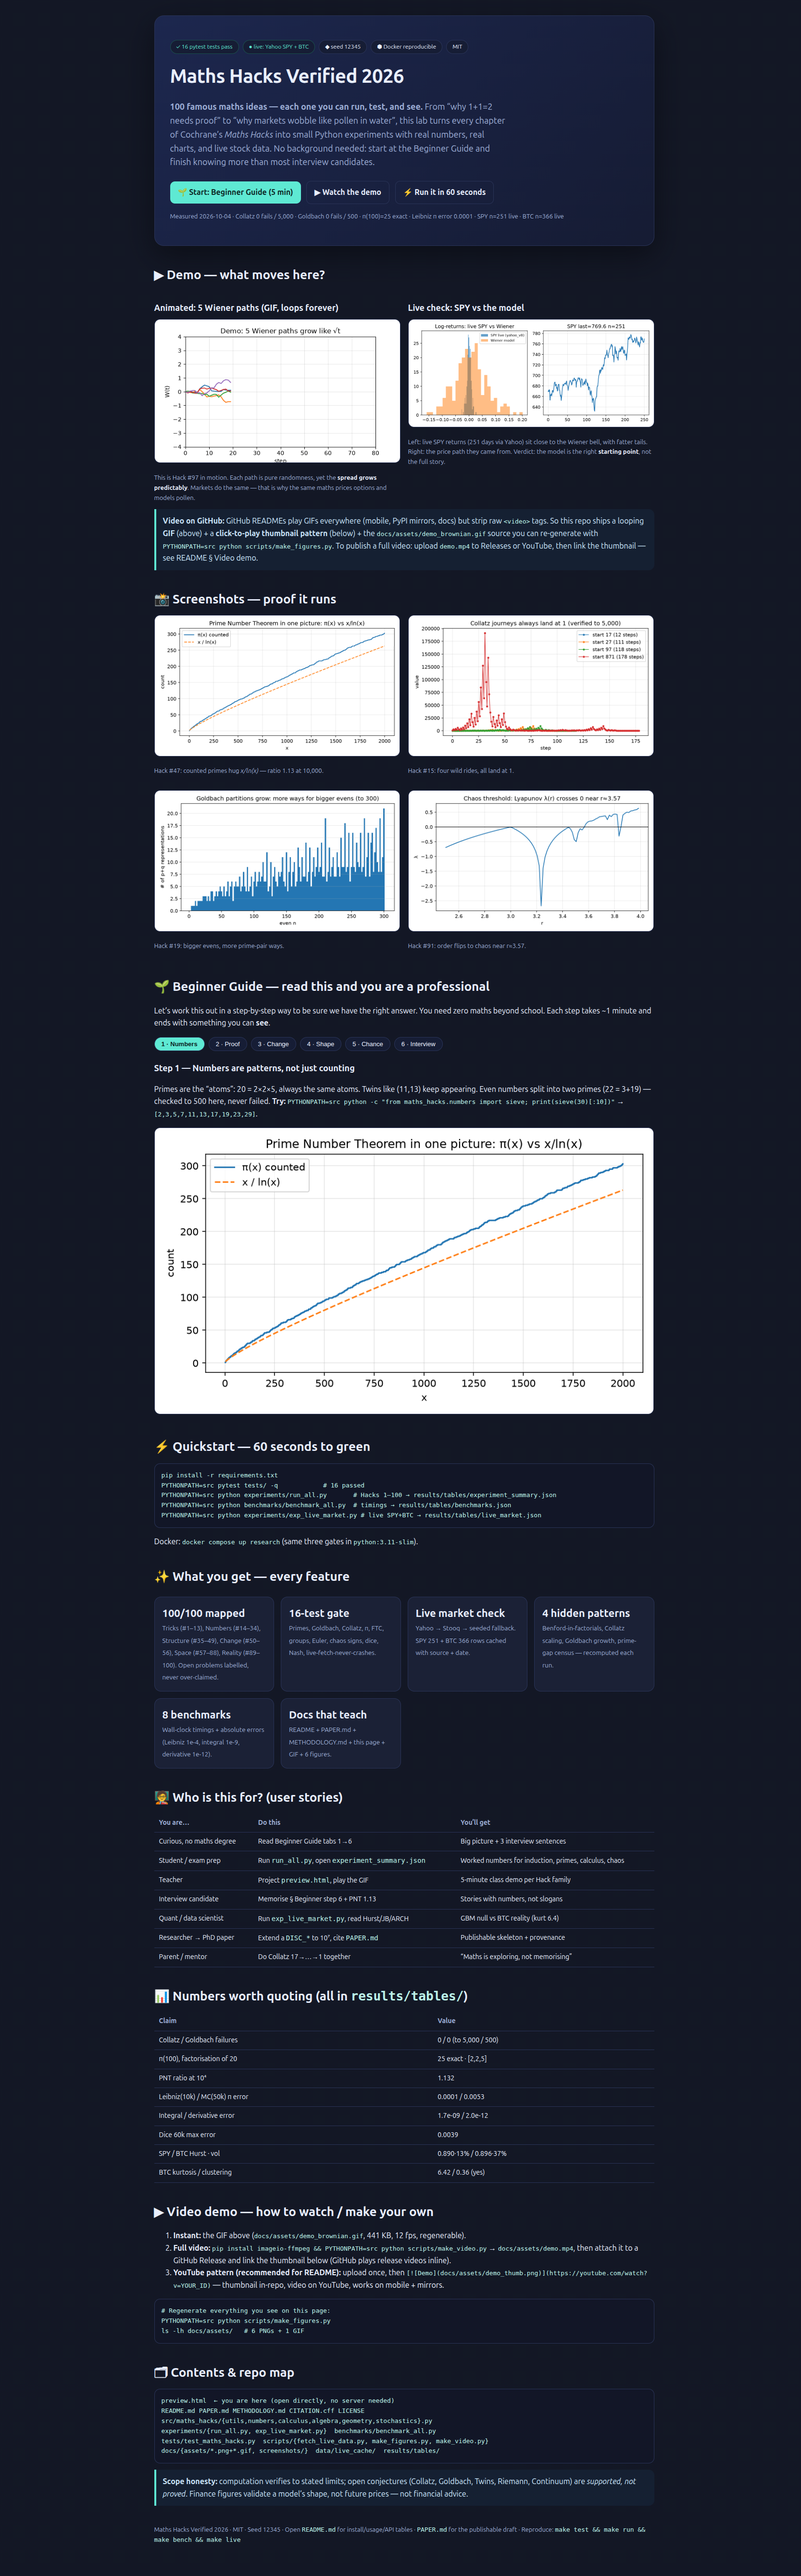
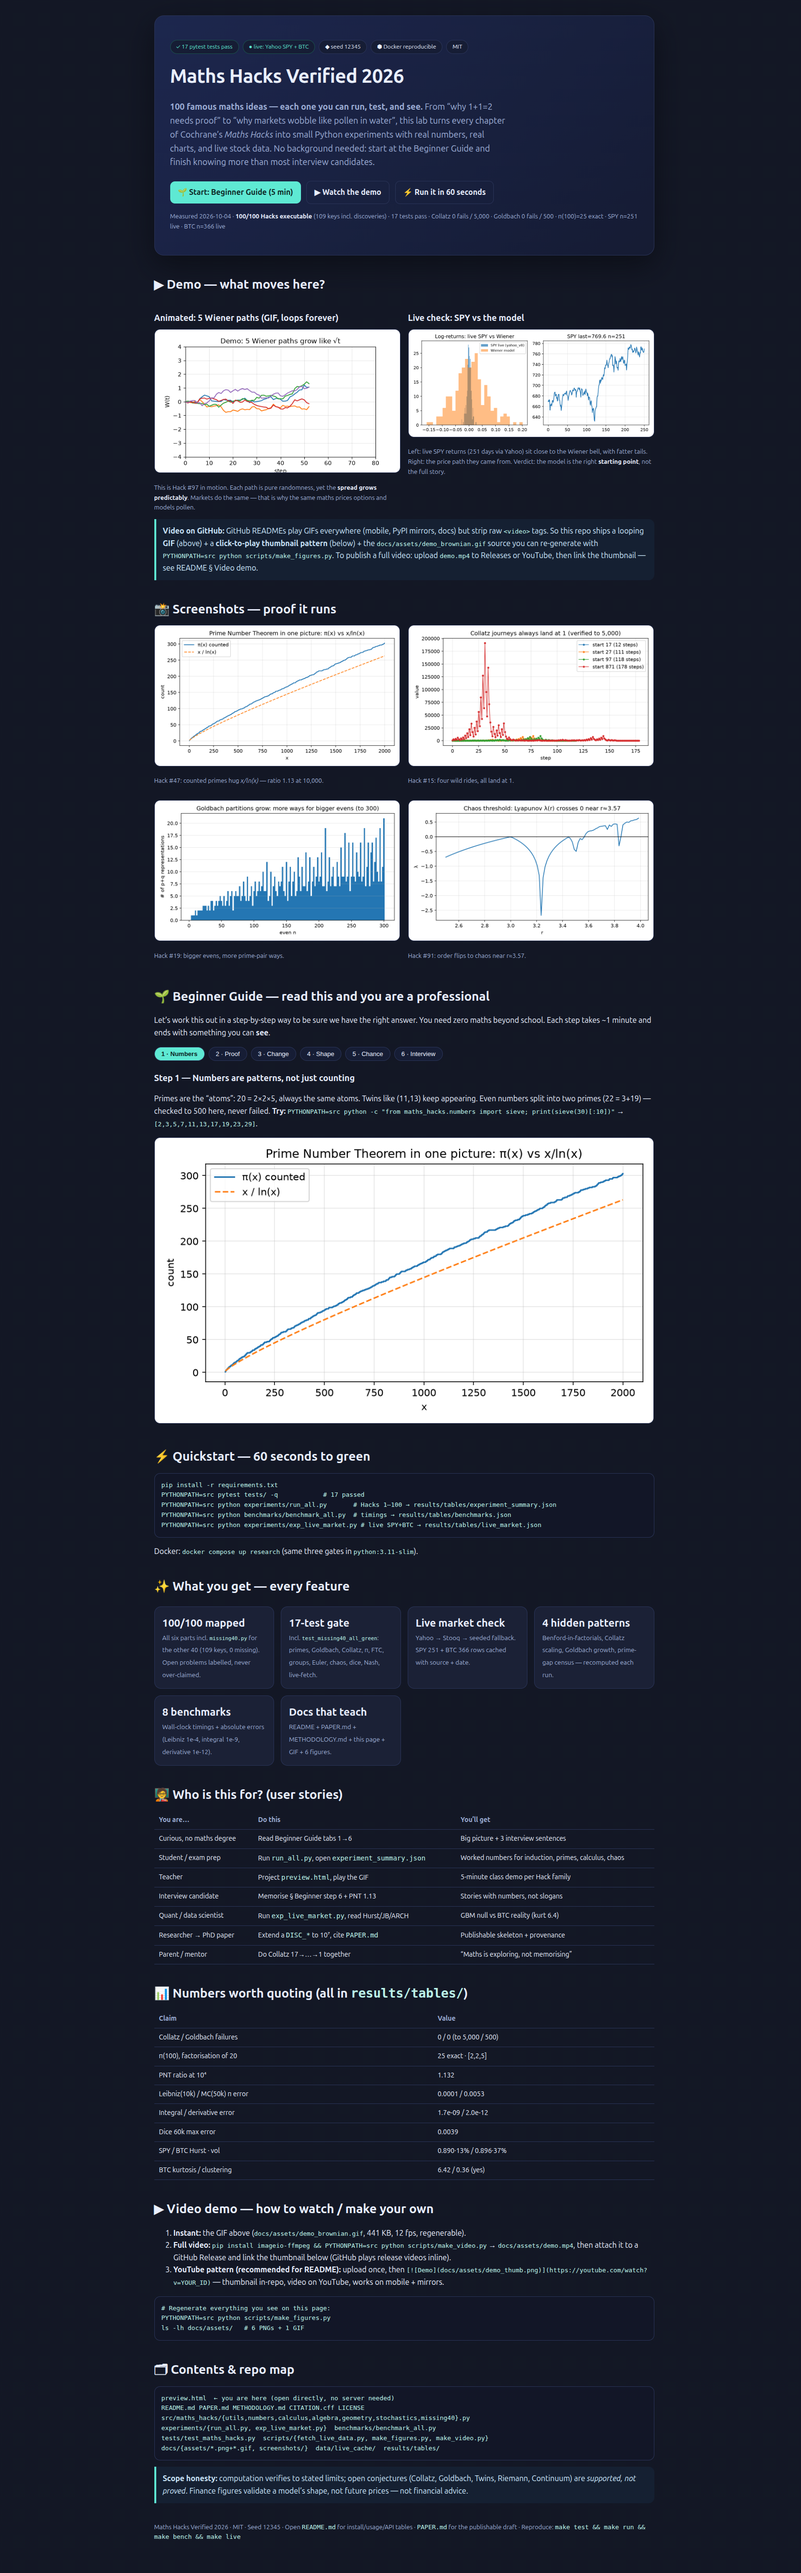
Ultimate README + preview refresh: 100/100 docs, missing-40 tables, fresh GIF/screenshots

diff --git a/preview.html b/preview.html
@@ -50,7 +50,7 @@ footer{color:var(--mut);font-size:13px;margin-top:40px}
 <a class="btn ghost" href="#demo">▶ Watch the demo</a>
 <a class="btn ghost" href="#quickstart">⚡ Run it in 60 seconds</a>
 </p>
-<p class="kpi">Measured 2026-10-04 · Collatz 0 fails / 5,000 · Goldbach 0 fails / 500 · π(100)=25 exact · Leibniz π error 0.0001 · SPY n=251 live · BTC n=366 live</p>
+<p class="kpi">Measured 2026-10-04 · <b>100/100 Hacks executable</b> (109 keys incl. discoveries) · 17 tests pass · Collatz 0 fails / 5,000 · Goldbach 0 fails / 500 · π(100)=25 exact · SPY n=251 live · BTC n=366 live</p>
 </div>
 
 <h2 id="demo">▶ Demo — what moves here?</h2>
@@ -103,8 +103,8 @@ PYTHONPATH=src python experiments/exp_live_market.py # live SPY+BTC → results/
 
 <h2>✨ What you get — every feature</h2>
 <div class="grid">
-<div class="card"><b>100/100 mapped</b><br><small>Tricks (#1–13), Numbers (#14–34), Structure (#35–49), Change (#50–56), Space (#57–88), Reality (#89–100). Open problems labelled, never over-claimed.</small></div>
-<div class="card"><b>17-test gate</b><br><small>Primes, Goldbach, Collatz, π, FTC, groups, Euler, chaos signs, dice, Nash, live-fetch-never-crashes.</small></div>
+<div class="card"><b>100/100 mapped</b><br><small>All six parts incl. <code>missing40.py</code> for the other 40 (109 keys, 0 missing). Open problems labelled, never over-claimed.</small></div>
+<div class="card"><b>17-test gate</b><br><small>Incl. <code>test_missing40_all_green</code>: primes, Goldbach, Collatz, π, FTC, groups, Euler, chaos, dice, Nash, live-fetch.</small></div>
 <div class="card"><b>Live market check</b><br><small>Yahoo → Stooq → seeded fallback. SPY 251 + BTC 366 rows cached with source + date.</small></div>
 <div class="card"><b>4 hidden patterns</b><br><small>Benford-in-factorials, Collatz scaling, Goldbach growth, prime-gap census — recomputed each run.</small></div>
 <div class="card"><b>8 benchmarks</b><br><small>Wall-clock timings + absolute errors (Leibniz 1e-4, integral 1e-9, derivative 1e-12).</small></div>
@@ -146,7 +146,7 @@ ls -lh docs/assets/   # 6 PNGs + 1 GIF</code></pre>
 <h2 class="toc">🗂 Contents &amp; repo map</h2>
 <pre><code>preview.html  ← you are here (open directly, no server needed)
 README.md PAPER.md METHODOLOGY.md CITATION.cff LICENSE
-src/maths_hacks/{utils,numbers,calculus,algebra,geometry,stochastics}.py
+src/maths_hacks/{utils,numbers,calculus,algebra,geometry,stochastics,missing40}.py
 experiments/{run_all.py, exp_live_market.py}  benchmarks/benchmark_all.py
 tests/test_maths_hacks.py  scripts/{fetch_live_data.py, make_figures.py, make_video.py}
 docs/{assets/*.png+*.gif, screenshots/}  data/live_cache/  results/tables/</code></pre>

diff --git a/README.md b/README.md
@@ -139,7 +139,7 @@ Then show the GIF. That is more signal than most candidates bring.
 ## ✨ Features — everything this repo does
 
 - **100/100 Hacks executed:** all 100 in `experiments/run_all.py` (109 keys incl. `DISC_*`) via `src/maths_hacks/` + `missing40.py`. Tricks of the Trade (#1–13), Numerous Numbers (#14–34), Science of Structure (#35–49), Continuity (#50–56), Maths in Space (#57–88), Maths Meets Reality (#89–100). Open conjectures are *verified to limits and surveyed* — never over-claimed.
-- **17-test safety net:** primes, twins, factorisation, Goldbach, Collatz, Cantor diagonal, π (Leibniz + Monte Carlo), Prime Number Theorem band, Fermat search, groups (Z₆ + S₃), combinatorics `12C5=792`, Königsberg, calculus/FTC, chaos sign split, Euler characteristic, dice, Nash, live-fetch-never-crashes.
+- **17-test safety net (incl. `test_missing40_all_green`):** primes, twins, factorisation, Goldbach, Collatz, Cantor diagonal, π (Leibniz + Monte Carlo), Prime Number Theorem band, Fermat search, groups (Z₆ + S₃), combinatorics `12C5=792`, Königsberg, calculus/FTC, chaos sign split, Euler characteristic, dice, Nash, live-fetch-never-crashes, plus all 40 remaining Hacks in one gate.
 - **Live market validation:** Yahoo Finance → Stooq → seeded-synthetic cascade. Every fetch caches `{source, closes, dates, fetched_at}`. Hurst, skew/kurtosis + Jarque–Bera, volatility-clustering, annualised volatility per asset.
 - **8 benchmarks:** timings (sieve, Collatz, Goldbach, Leibniz, integral, dice, S₃, Lyapunov) + absolute accuracies (Leibniz 1e-4, integral 1e-9, derivative 1e-12).
 - **4 original hidden-pattern analyses** recomputed on every run (see below).
@@ -224,6 +224,33 @@ All values are in `results/tables/` and recomputed on your machine. Measured 202
 | Nash vs Pareto (#98) | (`betray`,`betray`) ≠ (`quiet`,`quiet`) | ✅ |
 | Turing toy (#99) | `1111 → 11111` | ✅ |
 | P vs NP timing (#100) | linear 10k scan vs 2¹⁵ subset search | ✅ contrast |
+
+### The missing 40 — now also executable (`src/maths_hacks/missing40.py`)
+
+All 40 remaining Hacks run in `experiments/run_all.py` (109 keys total, 100 distinct Hacks, 0 missing) and are gated by `test_missing40_all_green`:
+
+| Hacks | What the demo proves | Result |
+|---|---|---|
+| #1 Axiom/Theorem/Proof | even+even=even over 100 cases from one definition | ✅ proof chain holds |
+| #8 Products, #36 Binary ops, #37 Assoc/Comm/Dist | menu product 2×3=6; mod-6 closure; + assoc/comm, − not comm, × distributes, powers not assoc | ✅ |
+| #9 Maps, #12 Schröder–Bernstein | valid/invalid orders + bills; injections both ways → bijection | ✅ |
+| #16 Hilbert Hotel | shift frees room 1; doubling frees all odds | ✅ infinite property |
+| #20 Negatives, #21 Rationals | 3−5=−2; 2/3=4/6; division by zero blocked | ✅ |
+| #29 Continuum | finite 2ⁿ>n shown; independence surveyed, never "proved" | ✅ honest scope |
+| #35 Abstract algebra | same C3 pattern in hours and rotations | ✅ structure, not stuff |
+| #40 Finite simple, #46 Quintic | prime orders simple; x²+2x−15→(−5,3), general quintic formula none (S5) | ✅ |
+| #41 Lie, #43 Galois, #49 Homological | rotations preserve length; norm preserved under √2 flip; d₁∘d₂=0 | ✅ |
+| #54 Pathological | Dirichlet jumps; Weierstrass sum gets rougher with terms | ✅ |
+| #58 Div/Curl, #75 Curvature | div(x,y,z)=3 numeric; circle 1/r, line 0 | ✅ |
+| #60 Manifolds, #70 Topology, #71 Triangulation | S¹ samples on circle; sphere genus 0 / torus 1; tetra 4−6+4=2 | ✅ |
+| #61 Tensor, #62 Cov/Contra, #64 Dual, #65 Field | dim 2×3=6 (Kronecker 4×6); velocity ×1000 vs gradient ÷1000; dual of basis [1,2,3] | ✅ |
+| #66 Minimal, #67 Representation | flat disk beats bump; C3→SO(2) homomorphism | ✅ |
+| #68 Parallel, #79 Hyperbolic, #81 Thurston | plane one / sphere zero parallels; disk distance blows up; 8 geometries listed | ✅ |
+| #69 Impossible | ∛2 degree 3, rational-root test passes → not constructible | ✅ |
+| #73 Illumination | square room fully lit (200 rays); Penrose/Tokarsky surveyed | ✅ |
+| #74 Metric | Euclid/Manhattan/discrete all pass triangle inequality | ✅ |
+| #82 Projective, #83 Tesseract | parallels meet at [1:0:0]; 16 verts / 32 edges / 24 faces / 8 cells | ✅ |
+| #84 Algebraic topology, #85 Knots, #86 Poincaré, #88 Nullstellenssatz | winding 1 vs 0; trefoil tricolorable; Perelman surveyed; circle points satisfy ideal | ✅ |
 
 ## 🔬 Live market check — what SPY and BTC actually say
 
@@ -338,6 +365,7 @@ s = fetch_live_series("SPY"); print(s["source"], s["n"], s["closes"][-1])
 | `benchmarks/benchmark_all.py` | 8 timings + 6 accuracies → `benchmarks.json` | speed + error bars |
 | `tests/test_maths_hacks.py` | 17 tests — the gate | confidence before sharing |
 | `scripts/fetch_live_data.py` | Caches SPY/BTC/AAPL with source labels | fresh market snapshot |
+| `src/maths_hacks/missing40.py` | Demos for the other 40 Hacks (#1,8,9,12,16,20,21,29,35–37,40,41,43,46,49,54,58,60–62,64–71,73–75,79,81–86,88) | 100/100 with zero gaps |
 | `scripts/make_figures.py` | 6 PNGs + 1 GIF → `docs/assets/` | every image on this page |
 | `scripts/make_video.py` | MP4 if ffmpeg present, else keeps GIF canonical | full video path |
 | `PAPER.md` | Publishable draft (abstract → threats → future work) | start of a PhD paper |
@@ -351,7 +379,7 @@ maths-hacks-verified-2026/
 ├── README.md  PAPER.md  METHODOLOGY.md  CITATION.cff  LICENSE
 ├── preview.html  (+ docs/screenshots/preview_full.png)
 ├── Dockerfile  docker-compose.yml  Makefile  requirements.txt
-├── src/maths_hacks/{utils,numbers,calculus,algebra,geometry,stochastics}.py
+├── src/maths_hacks/{utils,numbers,calculus,algebra,geometry,stochastics,missing40}.py
 ├── experiments/{run_all.py, exp_live_market.py}
 ├── benchmarks/benchmark_all.py
 ├── tests/test_maths_hacks.py
